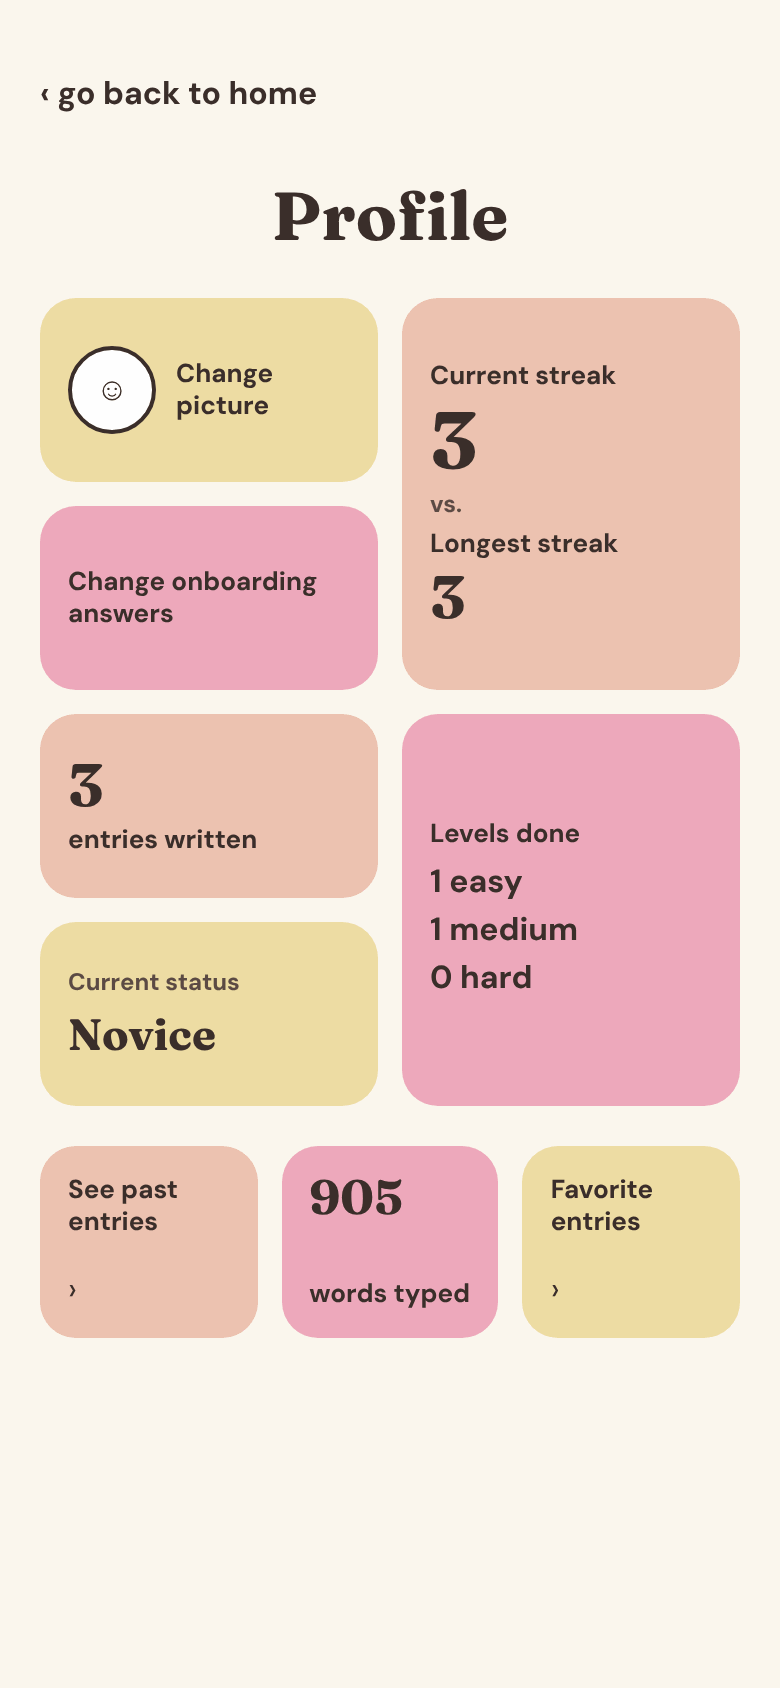
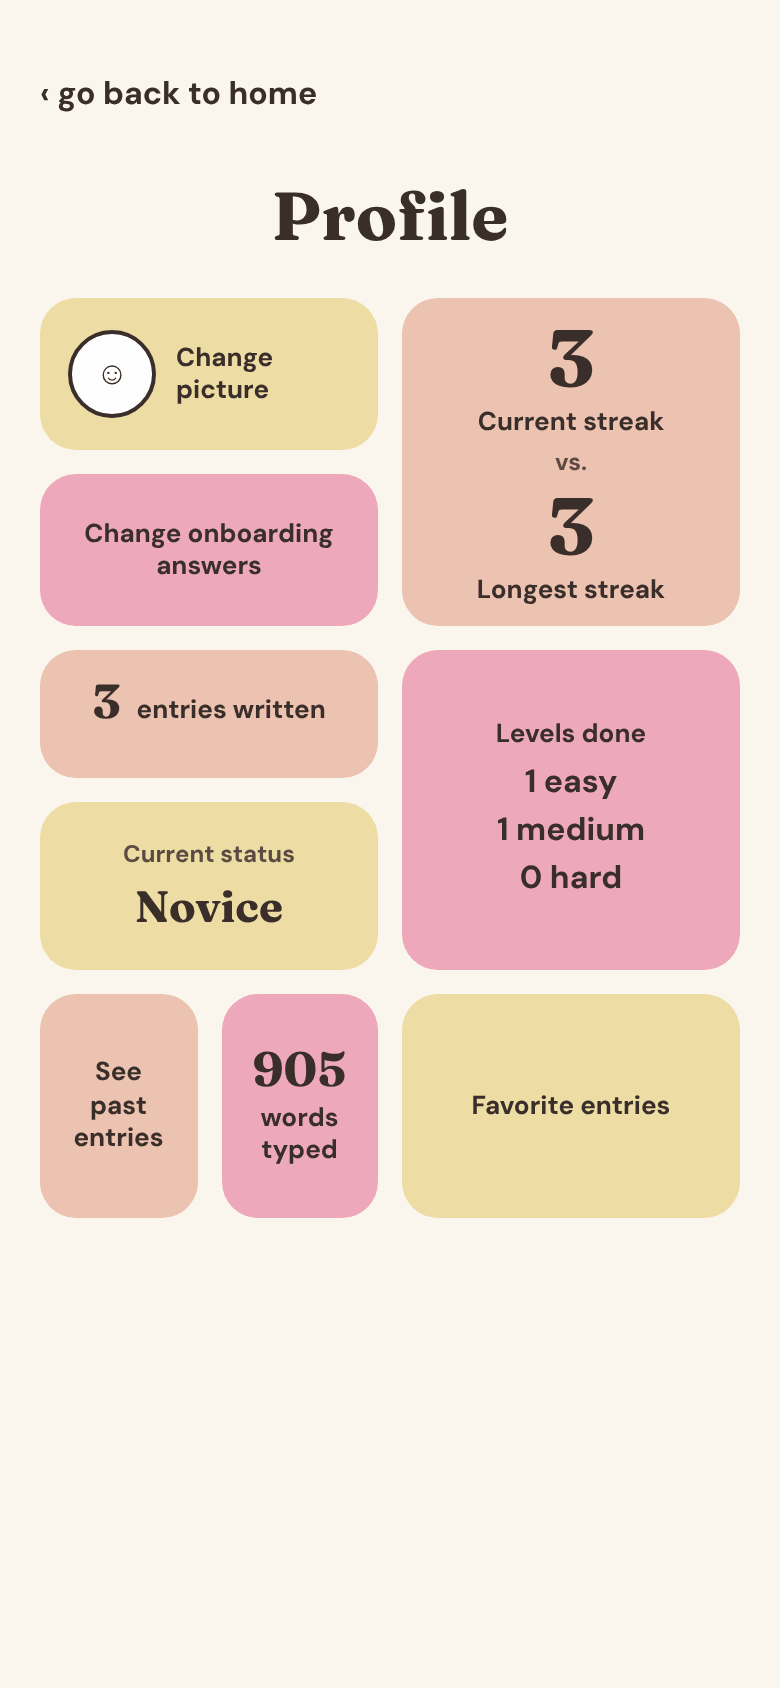
Lay out the Profile screen like Allison's drawing

Changed region(s): [[0.0308, 0.1848, 0.9538, 0.8009]]

diff --git a/app/index.html b/app/index.html
@@ -171,38 +171,38 @@
     <a href="#home" class="back">‹ go back to home</a>
     <h1 class="title center">Profile</h1>
 
+    <!-- Laid out like Allison's drawing: two columns, with the streak, levels and favorites on the right -->
     <div class="bento">
-      <label class="b-tile bg-yellow photo-tile">
+      <label class="b-tile bg-yellow photo-tile area-pic">
         <span class="avatar" id="avatar"></span>
         <span class="b-label">Change picture</span>
         <input type="file" accept="image/*" id="photo-input" class="sr-only">
       </label>
-      <div class="b-tile bg-orange tall-2">
-        <span class="b-label">Current streak</span>
+      <a href="#onboarding" class="b-tile bg-pink center-tile area-onb"><span class="b-label">Change onboarding answers</span></a>
+      <div class="b-tile bg-orange center-tile area-streak">
         <span class="b-big xl" id="p-streak">0</span>
+        <span class="b-label">Current streak</span>
         <span class="b-small">vs.</span>
+        <span class="b-big xl" id="p-longest">0</span>
         <span class="b-label">Longest streak</span>
-        <span class="b-big" id="p-longest">0</span>
       </div>
-      <a href="#onboarding" class="b-tile bg-pink"><span class="b-label">Change onboarding answers</span></a>
-      <div class="b-tile bg-orange">
-        <span class="b-big" id="p-entries">0</span>
+      <div class="b-tile bg-orange center-tile entries-tile area-ent">
+        <span class="b-big md" id="p-entries">0</span>
         <span class="b-label">entries written</span>
       </div>
-      <div class="b-tile bg-pink tall-2">
-        <span class="b-label">Levels done</span>
-        <span class="levels" id="p-levels"></span>
-      </div>
-      <div class="b-tile bg-yellow">
+      <div class="b-tile bg-yellow center-tile area-stat">
         <span class="b-small">Current status</span>
         <span class="status" id="p-status">Novice</span>
       </div>
-    </div>
-
-    <div class="trio">
-      <a href="#entries" class="b-tile bg-orange"><span class="b-label">See past entries</span><span aria-hidden="true">›</span></a>
-      <div class="b-tile bg-pink"><span class="b-big md" id="p-words">0</span><span class="b-label">words typed</span></div>
-      <div class="b-tile bg-yellow"><span class="b-label">Favorite entries</span><span aria-hidden="true">›</span></div>
+      <div class="b-tile bg-pink center-tile area-levels">
+        <span class="b-label">Levels done</span>
+        <span class="levels" id="p-levels"></span>
+      </div>
+      <div class="pair area-bottom">
+        <a href="#entries" class="b-tile bg-orange center-tile"><span class="b-label">See past entries</span></a>
+        <div class="b-tile bg-pink center-tile"><span class="b-big md" id="p-words">0</span><span class="b-label">words typed</span></div>
+      </div>
+      <div class="b-tile bg-yellow center-tile area-fav"><span class="b-label">Favorite entries</span></div>
     </div>
 
   </section>

diff --git a/app/styles.css b/app/styles.css
@@ -161,11 +161,20 @@ a.tile { text-decoration: none; }
 .pages span.on { font-weight: 700; }
 
 /* ---------- Profile ---------- */
-.bento { display: grid; grid-template-columns: repeat(2, minmax(0, 1fr)); grid-auto-rows: 92px; gap: 12px; }
-.trio { display: grid; grid-template-columns: repeat(3, minmax(0, 1fr)); gap: 12px; }
-.trio .b-tile { height: 96px; justify-content: space-between; }
+.bento {
+  display: grid; gap: 12px;
+  grid-template-columns: repeat(2, minmax(0, 1fr));
+  grid-template-rows: 76px 76px 64px 84px 112px;
+  grid-template-areas: "pic streak" "onb streak" "ent levels" "stat levels" "bottom fav";
+}
+.area-pic { grid-area: pic; } .area-onb { grid-area: onb; } .area-streak { grid-area: streak; }
+.area-ent { grid-area: ent; } .area-stat { grid-area: stat; } .area-levels { grid-area: levels; }
+.area-bottom { grid-area: bottom; } .area-fav { grid-area: fav; }
+.pair { display: grid; grid-template-columns: repeat(2, minmax(0, 1fr)); gap: 12px; }
+.center-tile { align-items: center; text-align: center; }
+.b-tile.entries-tile { flex-direction: row; align-items: baseline; justify-content: center; gap: 8px; }
+.area-streak { gap: 2px; }
 .b-tile { border-radius: 18px; padding: 14px; display: flex; flex-direction: column; justify-content: center; gap: 4px; text-decoration: none; overflow: hidden; }
-.tall-2 { grid-row: span 2; }
 .b-label { font-size: 13px; font-weight: 600; line-height: 1.25; }
 .b-small { font-size: 12px; font-weight: 600; color: #5e4e46; }
 .b-big { font-family: var(--font-title); font-weight: 700; font-size: 30px; line-height: 1; }

diff --git a/app/sw.js b/app/sw.js
@@ -1,6 +1,6 @@
 // Lets the app open even without internet, after the first visit.
 // When you change any app file, bump the version number so phones get the update.
-const CACHE = 'wpa-v11';
+const CACHE = 'wpa-v12';
 const FILES = ['./', 'index.html', 'styles.css', 'data.js', 'app.js', 'cloud.js', 'manifest.webmanifest',
   'icons/icon-192.png', 'icons/icon-512.png', 'icons/apple-touch-icon.png'];
 
